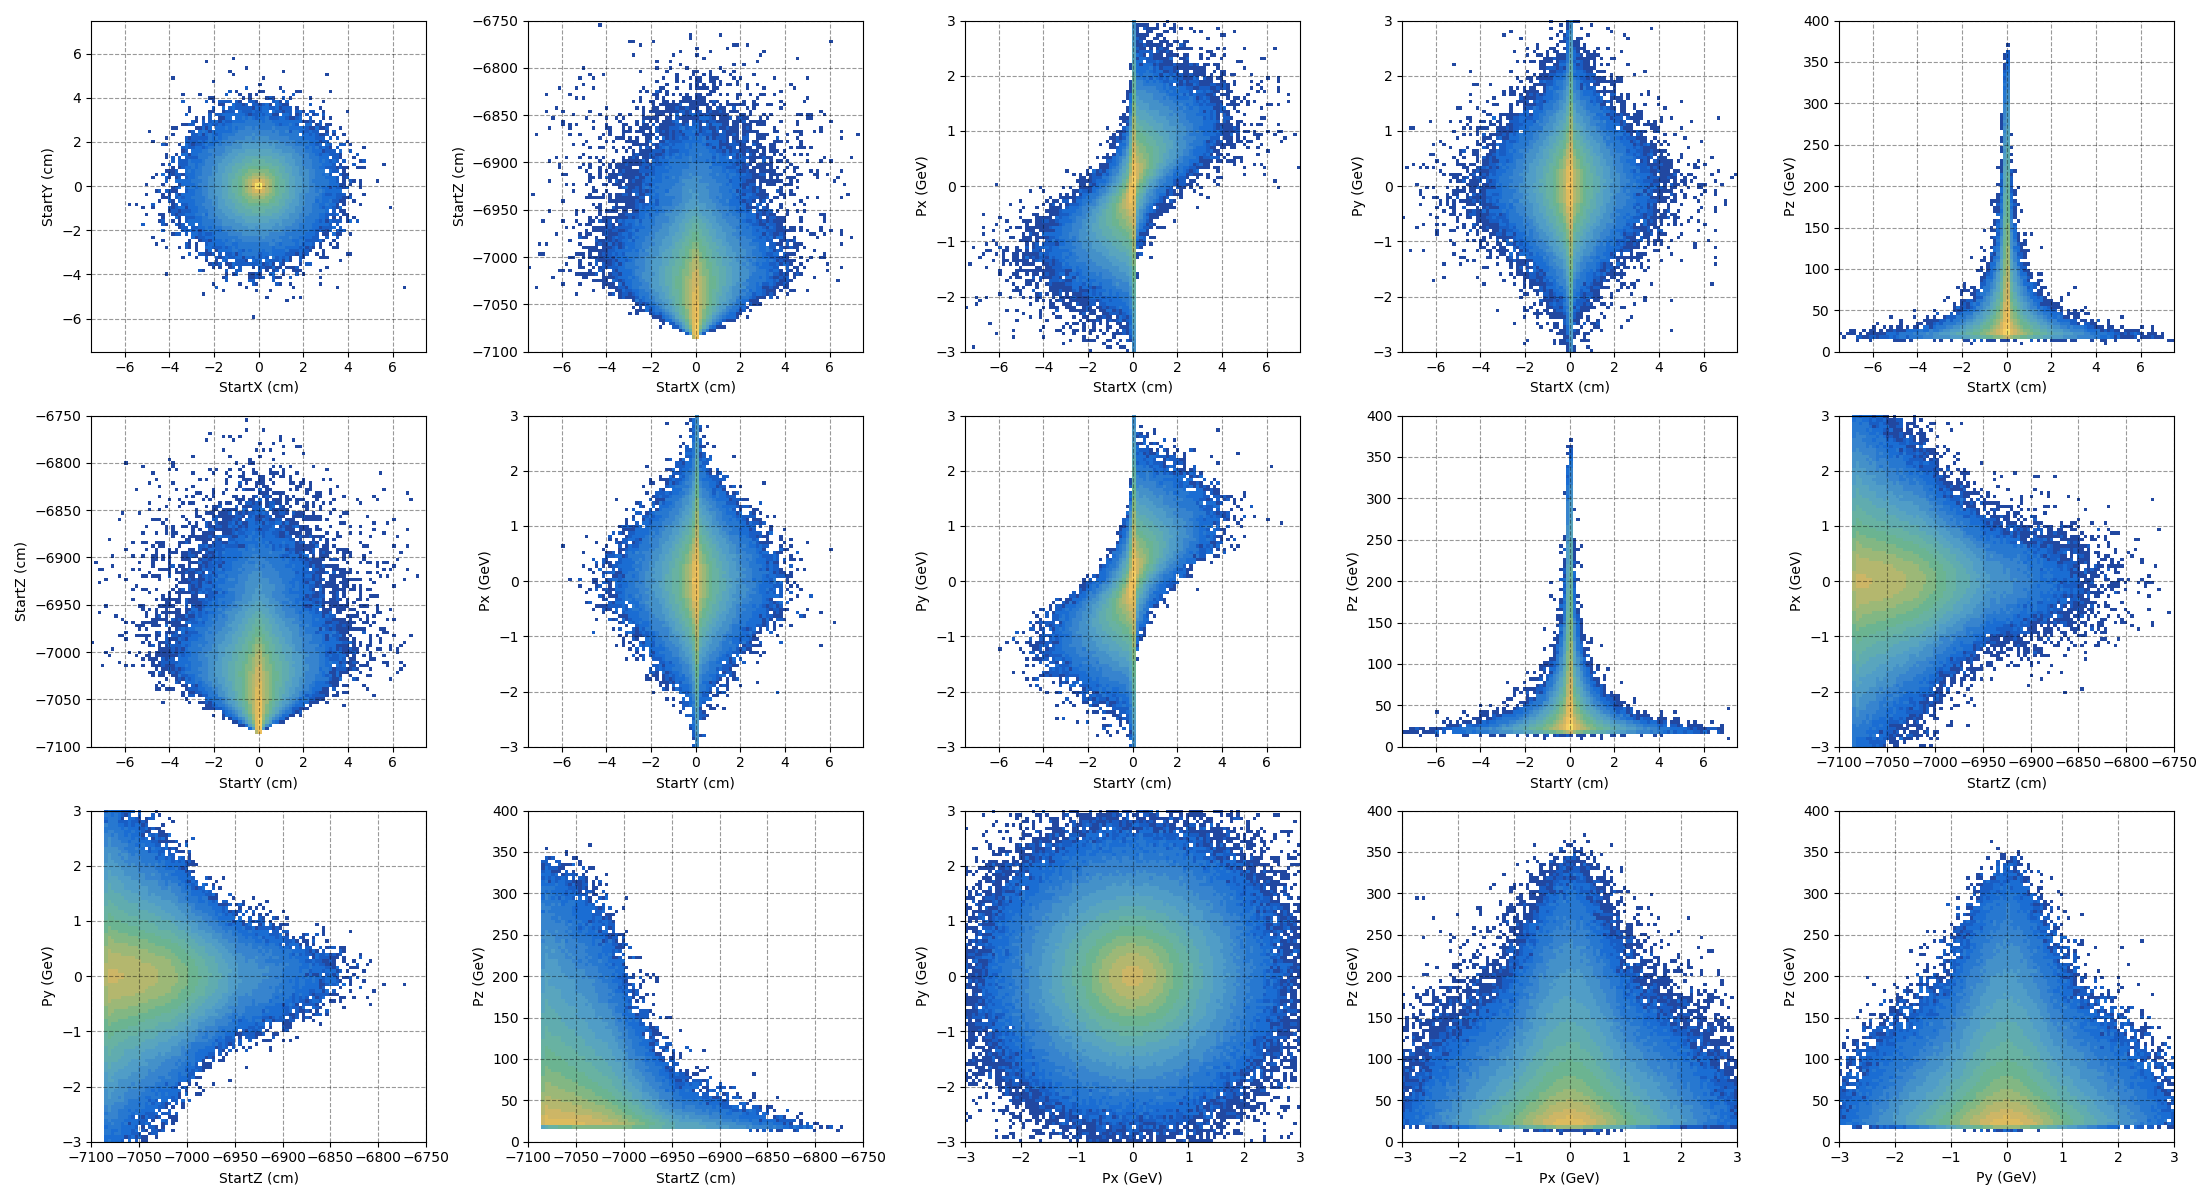
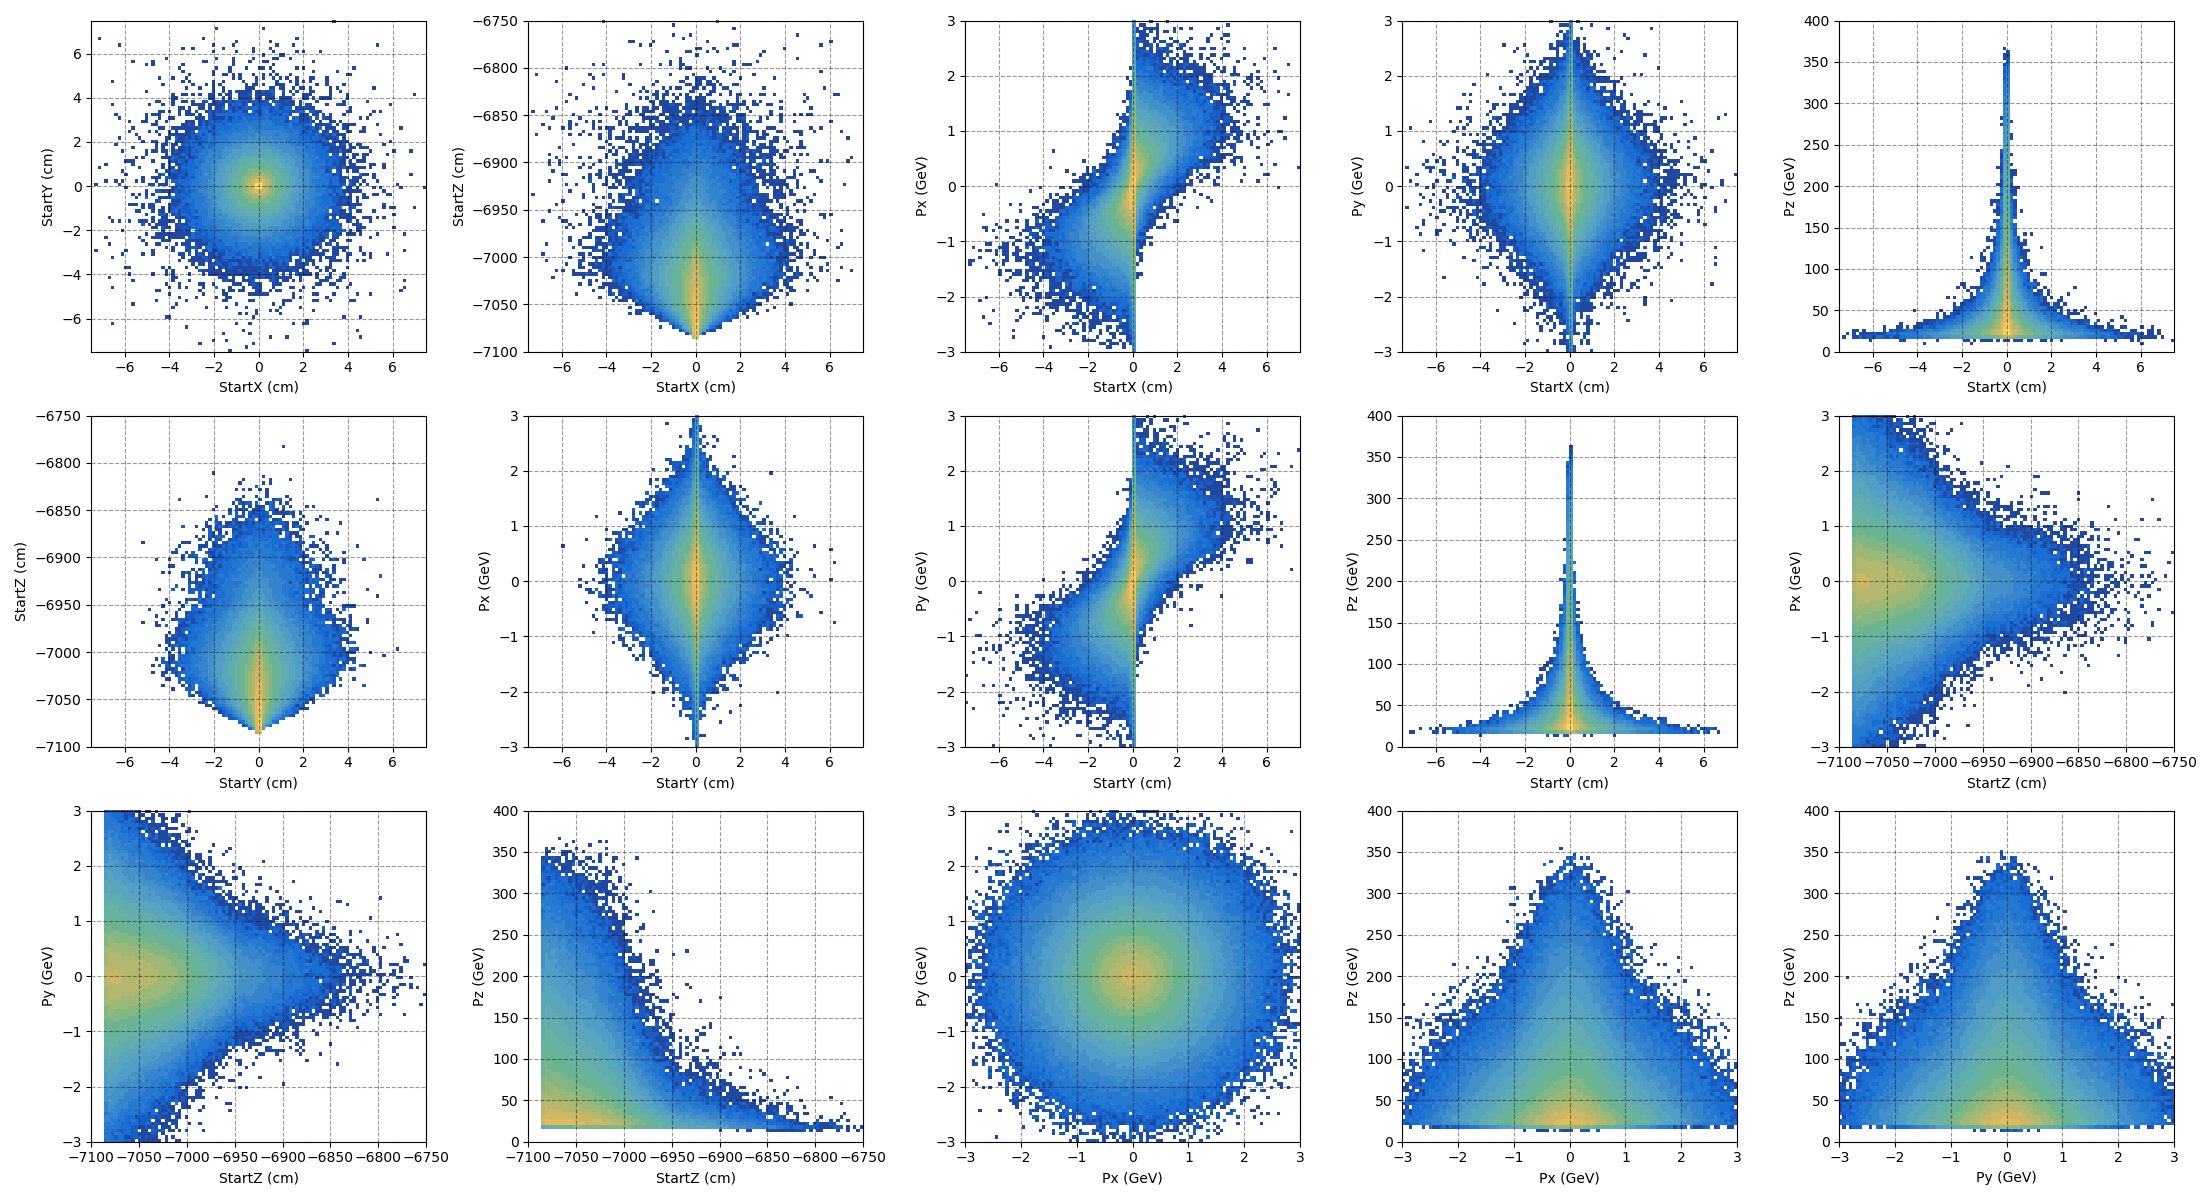
d

diff --git a/SHiP_GAN_module/muGAN.py b/SHiP_GAN_module/muGAN.py
@@ -163,26 +163,56 @@ class muGAN:
 
 		# Moulding some correlations in the PT vs P plane:
 
-		from scipy.linalg import cholesky
+		# from scipy.linalg import cholesky
 
-		r = np.array([
-				        [ 1,  0,  0,  0],
-				        [ 0,  1,  0,  0],
-				        [ 0,  0,  1,  0],
-				        [ 0,  0,  0.5,  1]
-				    ])
-		c = cholesky(r, lower=True)
-		aux_values[np.where(aux_values[:,2]>2)][:int((np.shape(np.where(aux_values[:,2]>2))[0]*0.9))] = np.swapaxes(np.dot(c, np.swapaxes(aux_values[np.where(aux_values[:,2]>2)][:int((np.shape(np.where(aux_values[:,2]>2))[0]*0.9))],0,1)),0,1)
+		# r = np.array([
+		# 		        [ 1,  0,  0,  0],
+		# 		        [ 0,  1,  0,  0],
+		# 		        [ 0,  0,  1,  -0.1],
+		# 		        [ 0,  0,  -0.1,  1]
+		# 		    ])
+		# c = cholesky(r, lower=True)
 
 
-		r = np.array([
-				        [ 1,  0,  0,  0],
-				        [ 0,  1,  0,  0],
-				        [ 0,  0,  1,  0],
-				        [ 0,  0,  -0.8,  1]
-				    ])
-		c = cholesky(r, lower=True)
-		aux_values[np.where(aux_values[:,3]>2.5)][:int((np.shape(np.where(aux_values[:,3]>2.5))[0]*0.8))] = np.swapaxes(np.dot(c, np.swapaxes(aux_values[np.where(aux_values[:,3]>2.5)][:int((np.shape(np.where(aux_values[:,3]>2.5))[0]*0.8))],0,1)),0,1)
+
+		# where_array = np.where(aux_values[:,2]>2)
+
+		# shape_i = int(np.shape(where_array)[1]*0.5)
+
+		# where_array = where_array[0][:int(shape_i)]
+	
+		# aux_values[where_array] = np.swapaxes(np.dot(c, np.swapaxes(aux_values[where_array],0,1)),0,1)
+
+
+
+		# r = np.array([
+		# 		        [ 1,  0,  0,  0],
+		# 		        [ 0,  1,  0,  0],
+		# 		        [ 0,  0,  1,  -0.1],
+		# 		        [ 0,  0,  -0.1,  1]
+		# 		    ])
+		# c = cholesky(r, lower=True)
+
+		# where_array = np.where(aux_values[:,3]>2)
+
+		# shape_i = int(np.shape(where_array)[1]*0.8)
+
+		# where_array = where_array[0][:int(shape_i)]
+	
+		# aux_values[where_array] = np.swapaxes(np.dot(c, np.swapaxes(aux_values[where_array],0,1)),0,1)
+
+
+		where_array = np.where(aux_values[:,3]>3)
+
+		shape_i = int(np.shape(where_array)[1]*0.8)
+
+		where_array = where_array[0][:int(shape_i)]
+
+
+		# print(aux_values[where_array,2])
+		aux_values[where_array,2] = aux_values[where_array,2]*0.7
+		# print(aux_values[where_array,2])
+
 
 		return aux_values
 

diff --git a/Tune_auxiliary_inputs.py b/Tune_auxiliary_inputs.py
@@ -40,14 +40,14 @@ initial_values[3] = [ 0, 0, 0, 0.5, 0.8, 0, 0.2] # pz
 # quit()
 
 
-# muGAN.tune(size=int(3E5), initial_values=initial_values, 
-# 	output_folder='Tuning_results',
-# 	training_data_location='/Users/am13743/Desktop/Data_for_GAN_paper_plots/real_data.npy')
-
-
-muGAN.tune(size=int(1E7), initial_values=initial_values, 
+muGAN.tune(size=int(1E5), initial_values=initial_values, 
 	output_folder='Tuning_results',
-	training_data_location='/mnt/storage/scratch/am13743/real_data.npy')
+	training_data_location='/Users/am13743/Desktop/Data_for_GAN_paper_plots/real_data.npy')
+
+
+# muGAN.tune(size=int(1E6), initial_values=initial_values, 
+# 	output_folder='Tuning_results',
+# 	training_data_location='/mnt/storage/scratch/am13743/real_data.npy')
 
 
 
